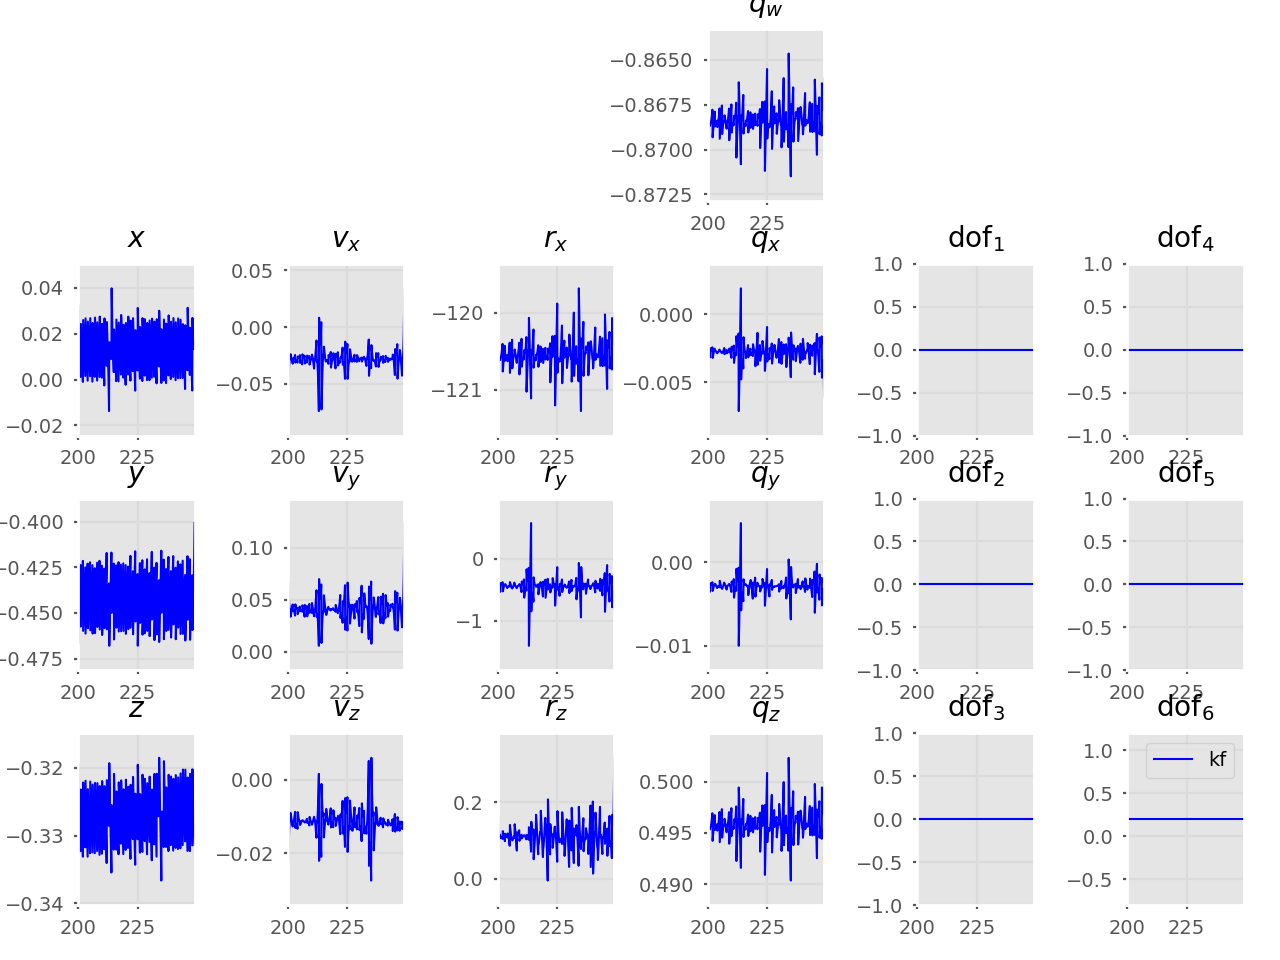
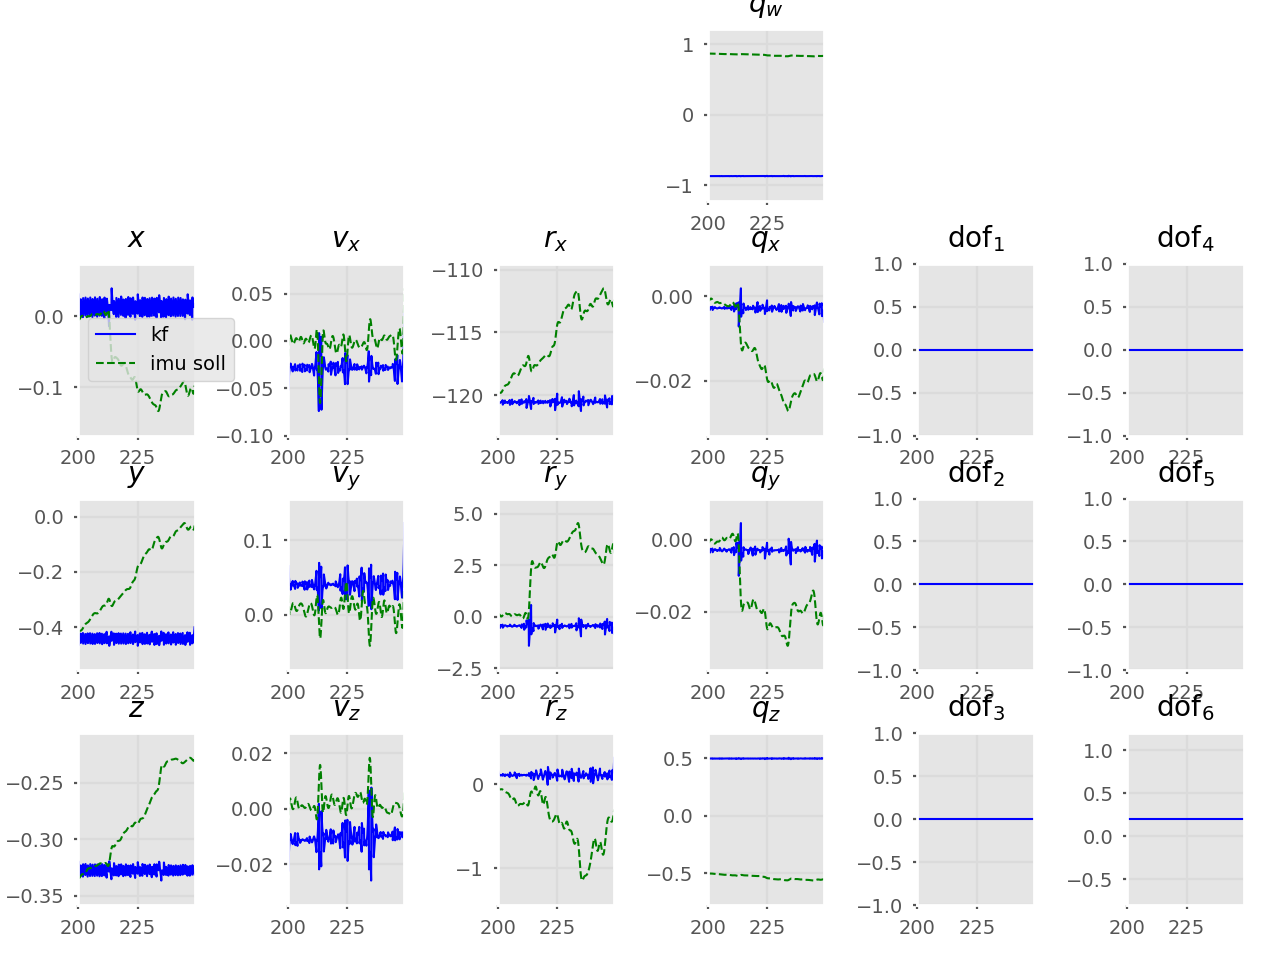
plot desired imu trajectory along with kf output

diff --git a/Filter/Trajectory.py b/Filter/Trajectory.py
@@ -485,6 +485,29 @@ class VisualTraj(Trajectory):
 
             return VisualMeasurement(t, pos, rot)
 
+class ImuDesTraj(Trajectory):
+    """ Desired traj of the IMU. """
+
+    def __init__(self, name, imu):
+        labels = ['t', 'x', 'y', 'z',
+                    'vx', 'vy', 'vz',
+                    'rx', 'ry', 'rz',
+                    'qw', 'qx', 'qy', 'qz']
+        super().__init__(name, labels)
+        self.imu = imu
+
+    def append_value(self, t, current_cam):
+        """ Appends new measurement from current state. """
+
+        p, R_WB, v = self.imu.desired_vals(current_cam)
+
+        euler_angs = R.from_matrix(R_WB).as_euler('xyz', degrees=True)
+        quats = R.from_matrix(R_WB).as_quat()
+        data = [t, *p, *v, *euler_angs, *quats]
+
+        for i, label in enumerate(self.labels):
+            self.__dict__[label].append(data[i])
+
 class FilterTraj(Trajectory):
     def __init__(self, name):
         self.labels_imu = ['x', 'y', 'z',
@@ -513,7 +536,8 @@ class FilterTraj(Trajectory):
             # print(f'{i} {label}: {data[i]}')
             self.__dict__[label].append(data[i])
 
-    def plot(self, labels, num_cols, offset, filename='', cam=None, axes=None, min_t=None, max_t=None):
+    def plot(self, labels, num_cols, offset, filename='',
+            cam=None, imu_des=None, axes=None, min_t=None, max_t=None):
         num_labels = len(labels)
         num_rows = math.ceil( num_labels / num_cols )
 
@@ -534,7 +558,9 @@ class FilterTraj(Trajectory):
 
             val_filt = self.__dict__[label]
             val_cam = cam.__dict__[label[:-1]] if cam else []
-            min_val, max_val = min(*val_filt, *val_cam), max(*val_filt, *val_cam)
+            val_des = imu_des.__dict__[label] if (imu_des and 'dof' not in label) else []
+
+            min_val, max_val = min(*val_filt, *val_cam, *val_des), max(*val_filt, *val_cam, *val_des)
 
             range_val = max_val - min_val
             min_val = min_val - 0.2 * range_val
@@ -550,6 +576,8 @@ class FilterTraj(Trajectory):
                 axes[row][col].plot(self.t, val_filt, label=self.name)
             if val_cam != []:
                 axes[row][col].plot(cam.t, val_cam, label=cam.name)
+            if val_des != []:
+                axes[row][col].plot(imu_des.t, val_des, label=imu_des.name)
 
             latex_label = self._get_latex_label(label)
             axes[row][col].set_title(latex_label)
@@ -564,8 +592,9 @@ class FilterTraj(Trajectory):
             for line in ax.get_lines():
                 self._set_plot_line_style(line)
 
-        # legend on last plot
-        axes[row][col].legend()
+        # legend on first plot
+        r0, c0 = self._get_plot_rc(offset, num_rows)
+        axes[r0][c0].legend()
 
         # save img
         if filename:
@@ -573,13 +602,13 @@ class FilterTraj(Trajectory):
 
         return axes
 
-    def plot_imu(self, filename='', axes=None, min_t=None, max_t=None):
+    def plot_imu(self, filename='', imu_des=None, axes=None, min_t=None, max_t=None):
         """ Creates plot of the IMU positioning parameters on the probe. """
 
         labels = self.labels_imu + self.labels_imu_dofs
         num_cols = 6
         offset = len(labels) % 2
-        return self.plot(labels, num_cols, offset, filename=filename, axes=axes, min_t=min_t, max_t=max_t)
+        return self.plot(labels, num_cols, offset, imu_des=imu_des, filename=filename, axes=axes, min_t=min_t, max_t=max_t)
 
     def plot_dofs(self, axes=None, min_t=None, max_t=None):
         """ Creates plot of the IMU positioning parameters on the probe. """
@@ -640,6 +669,10 @@ class FilterTraj(Trajectory):
             line.set_linewidth(0.75)
             line.set_linestyle('-')
             line.set_color('blue')
+        elif 'soll' in label:
+            line.set_linewidth(0.75)
+            line.set_linestyle('--')
+            line.set_color('green')
         else:
             line.set_color('darkgrey')
             line.set_linestyle('--')

diff --git a/Models/Imu.py b/Models/Imu.py
@@ -225,6 +225,35 @@ class Imu(object):
 
         return W_p_BW_0, R_WB_0, W_om_BW_0, WW_v_BW_0, W_alp_BW_0, W_acc_BW_0
 
+    def desired_vals(self, current_cam):
+        """ For troubleshooting.
+            Obtains the desired IMU position based on current camera values
+            the relative kinematics relations C to B.
+        """
+        # cam values
+        W_p_CW, WW_v_CW, W_acc_CW = current_cam.p, current_cam.v, current_cam.acc
+        R_WC, W_om_CW, W_alp_CW = current_cam.R, current_cam.om, current_cam.alp
+
+        R_WB = casadi.DM(R_WC @ self.R_BC.T).full()
+        W_p_BW = casadi.DM(W_p_CW - R_WB @ self.B_p_CB).full()
+
+        W_om_BW = casadi.DM(W_om_CW - R_WC @ self.R_BC.T @ self.B_om_CB).full()
+        WW_v_BW = casadi.DM(WW_v_CW - R_WB @ self.BB_v_CB \
+                - casadi.cross(W_om_BW, R_WB @ self.B_p_CB)).full()
+
+        # W_alp_BW = casadi.DM(W_alp_CW - R_WB @ self.B_alp_CB
+                    # - casadi.cross(W_om_BW, R_WB @ self.B_om_CB)).full()
+        # W_acc_BW = casadi.DM( \
+                    # W_acc_CW - R_WB @ self.B_acc_CB \
+                    # - casadi.cross(W_alp_BW, R_WB @ self.B_p_CB) \
+                    # - 2 * casadi.cross(W_om_BW, R_WB @ self.BB_v_CB) \
+                    # - casadi.cross(W_om_BW,
+                            # casadi.cross(W_om_BW, R_WB @ self.B_p_CB)
+                            # )
+                    # ).full()
+
+        return W_p_BW, R_WB, WW_v_BW
+
     def write_array_to_file(self, filepath):
         """ Writes IMU trajectory, stored in the _om and _acc arrays,
             to a text file.

diff --git a/main.py b/main.py
@@ -1,4 +1,4 @@
-from Filter import States, Filter, VisualTraj, MatrixPlotter
+from Filter import States, Filter, VisualTraj, ImuDesTraj, MatrixPlotter
 import numpy as np
 
 def parse_arguments():
@@ -32,6 +32,9 @@ kf = Filter(imu, IC, cov0)
 kf.traj.append_state(cam.t[0], kf.states)
 kf.Qc, kf.R = gen_noise_matrices(Qval, Rpval, Rqval)
 
+# desired trajectory
+imu_des = ImuDesTraj("imu soll", imu)
+
 # filter main loop (t>=1)
 old_t = min_t
 for i, t in enumerate(cam.t[1:]):
@@ -48,6 +51,7 @@ for i, t in enumerate(cam.t[1:]):
         om, acc = imu.eval_expr_single(ti, *probe_BtoC.joint_dofs,
             interp.acc, interp.R,
             interp.om, interp.alp, )
+        imu_des.append_value(ti, interp)
 
         kf.dt = ti - old_ti
         kf.propagate(ti, om, acc)
@@ -66,4 +70,4 @@ for i, t in enumerate(cam.t[1:]):
 # plots
 from plotter import plot_trajectories
 traj_name = 'mono'
-plot_trajectories(kf.traj, traj_name)
+plot_trajectories(kf.traj, traj_name, imu_des)

diff --git a/plotter.py b/plotter.py
@@ -7,8 +7,8 @@ def plot_savefig(fig, figname):
     print(f"Saving file \"{figname}\". ")
     fig.savefig(figname)
     
-def plot_trajectories(kf_traj, traj_name):
-    imu_axes = kf_traj.plot_imu('img/kf_' + traj_name + '_imu.png', min_t=min_t, max_t=max_t)
+def plot_trajectories(kf_traj, traj_name, imu_des):
+    imu_axes = kf_traj.plot_imu('img/kf_' + traj_name + '_imu.png', min_t=min_t, max_t=max_t, imu_des=imu_des)
     cam_axes = kf_traj.plot_camera('img/kf_' + traj_name + '_cam.png', cam=cam.traj, min_t=min_t, max_t=max_t)
     plt.legend()
     plt.show()

diff --git a/Filter/__init__.py b/Filter/__init__.py
@@ -1,7 +1,7 @@
 from .Quaternion import Quaternion
 
 from .Filter import Filter, States
-from .Trajectory import VisualTraj, FilterTraj, ImuTraj
+from .Trajectory import VisualTraj, FilterTraj, ImuTraj, ImuDesTraj
 from .MatrixPlotter import MatrixPlotter
 
 from .symbols import *
